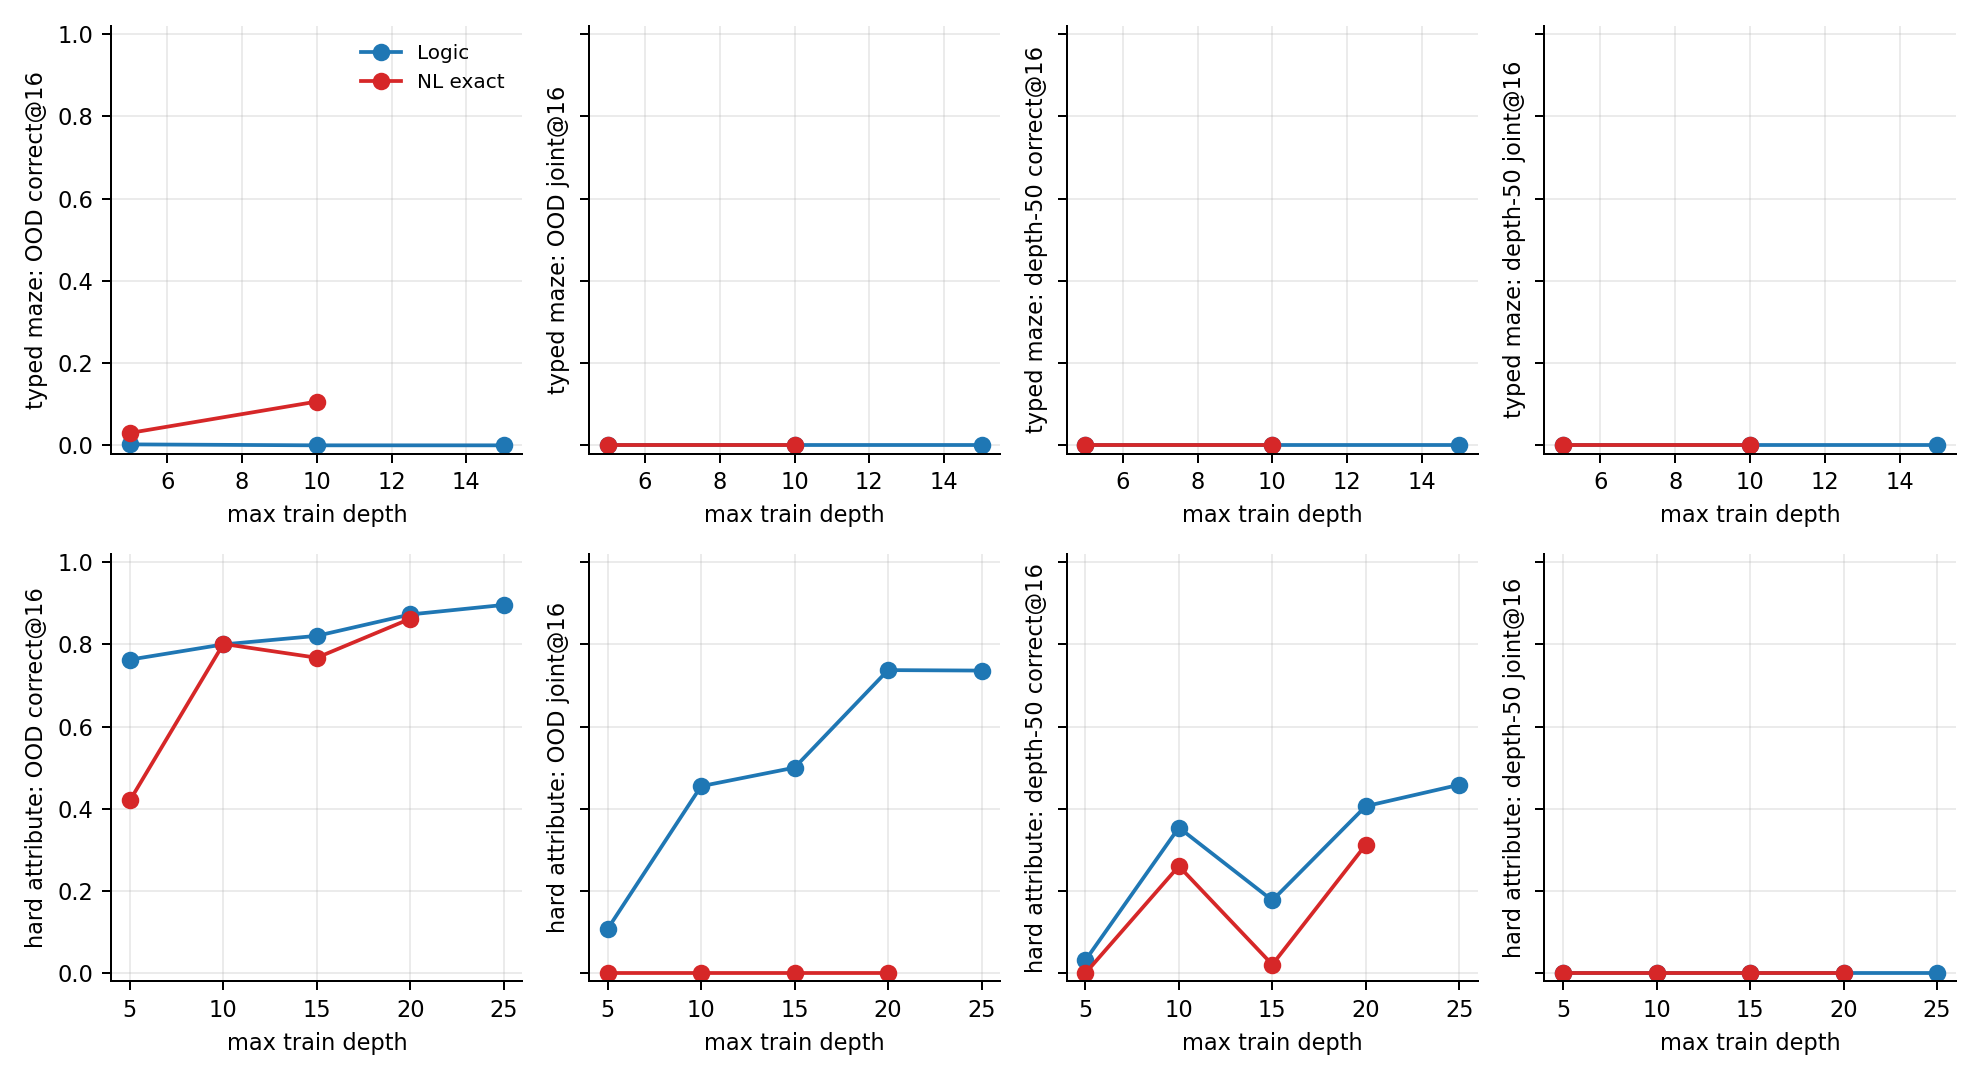
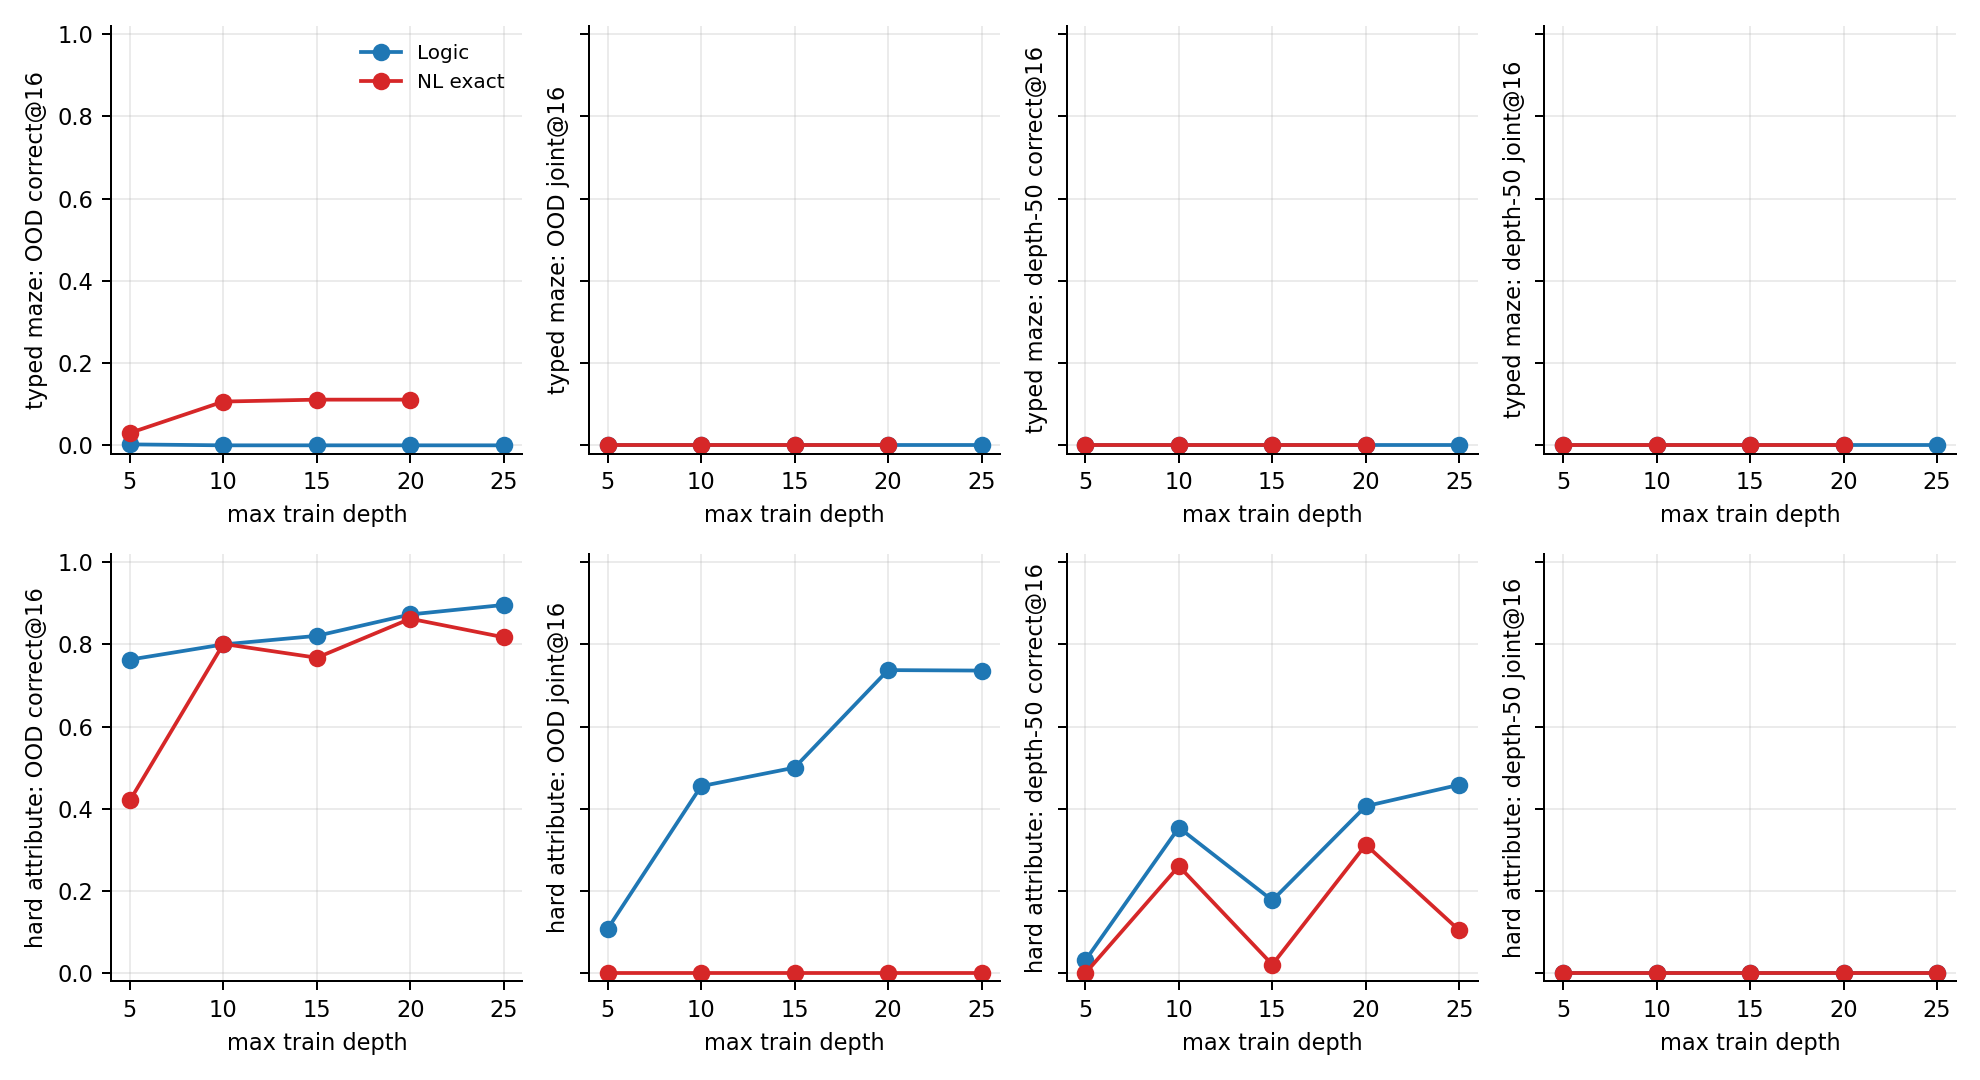
Refresh paired recovery report

diff --git a/main.tex b/main.tex
@@ -592,8 +592,8 @@ iGSM & paired-family full suite & 30 & 30 & 30 & 30 & complete \\
 maze & paired-family full suite & 30 & 30 & 7 & 30 & partial eval \\
 attribute constraints & paired-family full suite & 30 & 30 & 0 & 30 & eval pending \\
 semantic iGSM & semantic bare-symbol paired rerun & 30 & 30 & 30 & 30 & complete \\
-typed maze & typed-symbol paired rerun & 30 & 30 & 15 & 30 & partial eval \\
-hard attribute fresh & fresh hard-attribute-only eval & 30 & 30 & 27 & 30 & partial eval \\
+typed maze & typed-symbol paired rerun & 30 & 30 & 27 & 30 & partial eval \\
+hard attribute fresh & fresh hard-attribute-only eval & 30 & 30 & 30 & 30 & complete \\
 trace controls & six train-1-to-25 perturbations &  &  & 18 & 18 & complete \\
 shortcut-rate & rates 0.3/0.5/0.8, logic and NL &  &  & 18 & 18 & complete \\
 hybrid order & formal-then-NL and NL-then-formal full train-depth suite &  &  & 30 & 30 & complete \\
@@ -625,11 +625,16 @@ hard attribute & nl\_exact & 5 & 3 & 1.000 & 0.000 & 0.420 & 0.000 & 0.000 & 0.0
 hard attribute & nl\_exact & 10 & 3 & 1.000 & 0.000 & 0.801 & 0.000 & 0.000 & 0.260 & 0.000 \\
 hard attribute & nl\_exact & 15 & 3 & 1.000 & 0.000 & 0.767 & 0.000 & 0.000 & 0.021 & 0.000 \\
 hard attribute & nl\_exact & 20 & 3 & 1.000 & 0.000 & 0.862 & 0.000 & 0.000 & 0.312 & 0.000 \\
+hard attribute & nl\_exact & 25 & 3 & 1.000 & 0.000 & 0.817 & 0.000 & 0.000 & 0.104 & 0.000 \\
 typed maze & logic & 5 & 3 & 1.000 & 1.000 & 0.002 & 0.002 & 0.000 & 0.000 & 0.000 \\
 typed maze & logic & 10 & 3 & 0.750 & 0.750 & 0.000 & 0.000 & 0.000 & 0.000 & 0.000 \\
 typed maze & logic & 15 & 3 & 0.500 & 0.500 & 0.000 & 0.000 & 0.000 & 0.000 & 0.000 \\
+typed maze & logic & 20 & 3 & 0.375 & 0.375 & 0.000 & 0.000 & 0.000 & 0.000 & 0.000 \\
+typed maze & logic & 25 & 3 & 0.333 & 0.333 & 0.000 & 0.000 & 0.000 & 0.000 & 0.000 \\
 typed maze & nl\_exact & 5 & 3 & 1.000 & 0.000 & 0.030 & 0.000 & 0.000 & 0.000 & 0.000 \\
 typed maze & nl\_exact & 10 & 3 & 1.000 & 0.000 & 0.106 & 0.000 & 0.000 & 0.000 & 0.000 \\
+typed maze & nl\_exact & 15 & 3 & 1.000 & 0.000 & 0.111 & 0.000 & 0.000 & 0.000 & 0.000 \\
+typed maze & nl\_exact & 20 & 3 & 0.750 & 0.000 & 0.111 & 0.000 & 0.000 & 0.000 & 0.000 \\
 \bottomrule
 \end{tabular}
 \caption{Fresh typed-maze and hard-attribute partial results. For logic, valid/joint means citation-free formal validity; for NL, valid/parse is NL-to-FOL parse coverage and joint is translated-valid joint.}